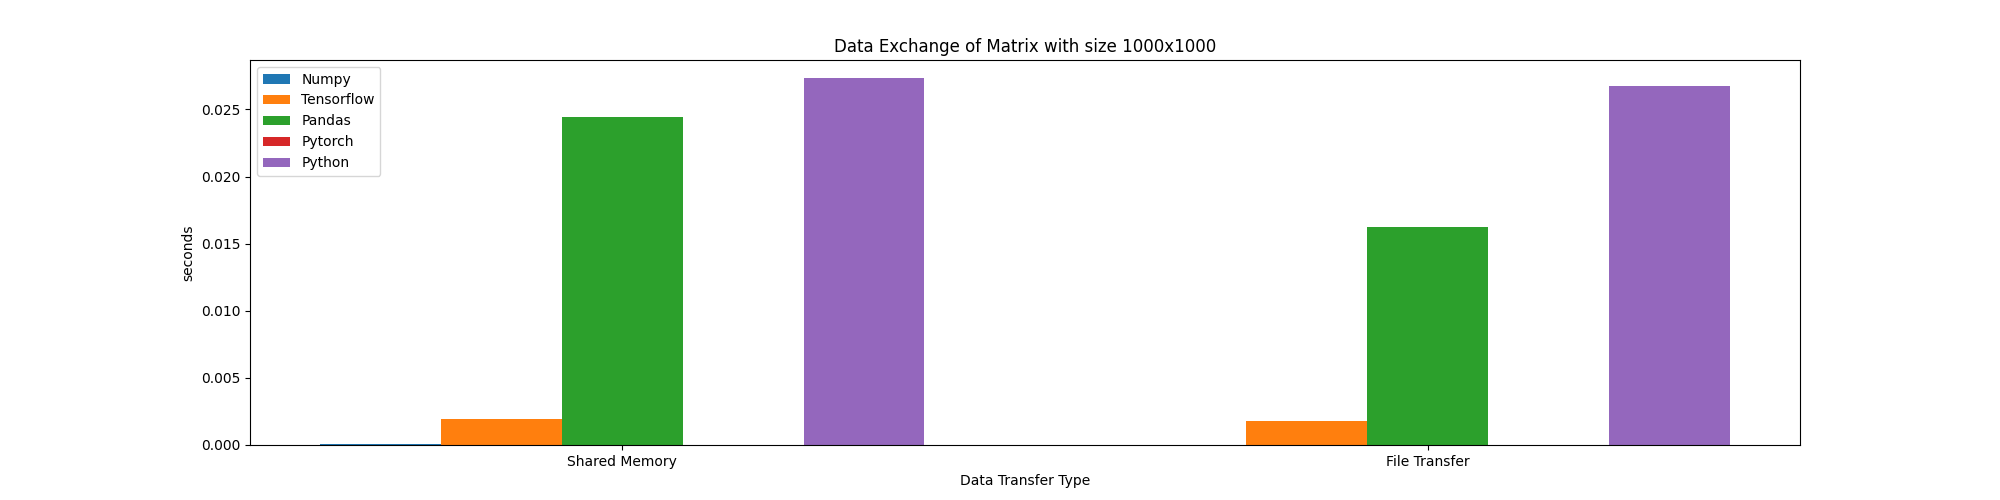
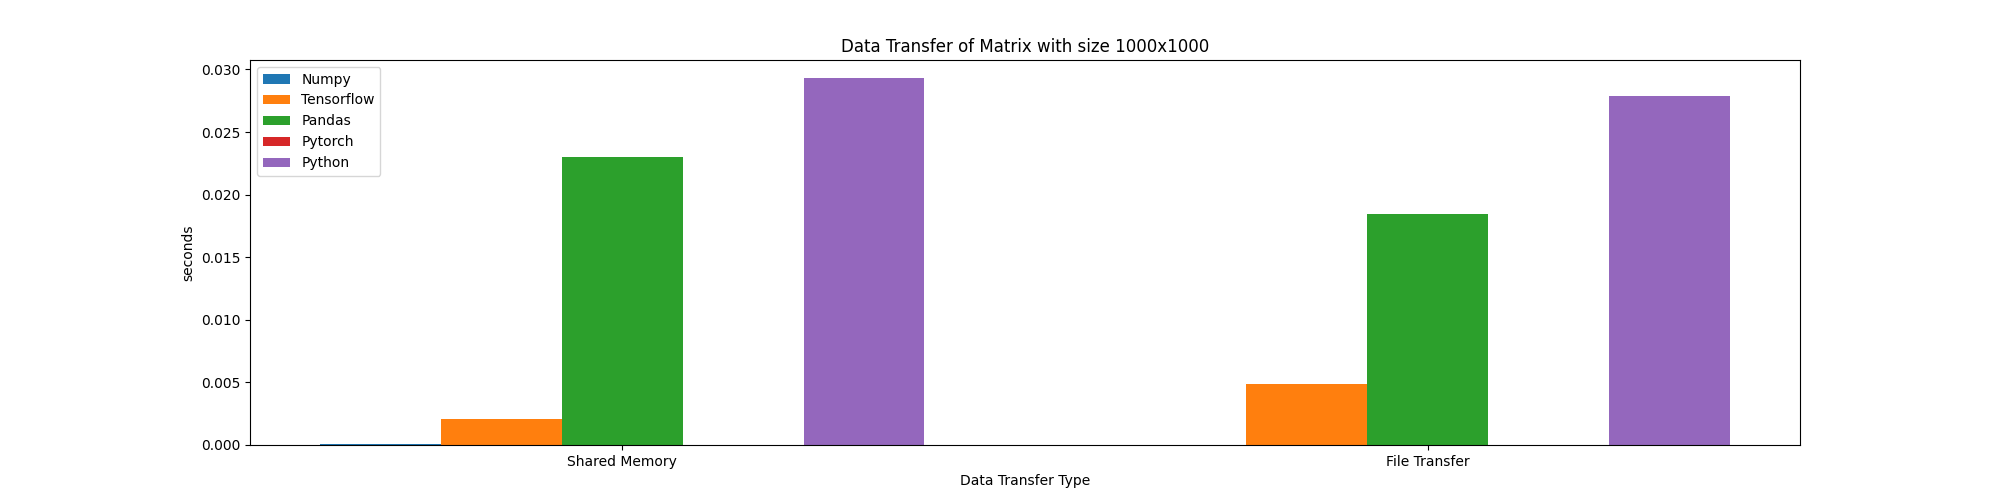
fix title in some of the graphs

diff --git a/benchmarks/api/python/data_exchange_comparison_python_daphnelib.py b/benchmarks/api/python/data_exchange_comparison_python_daphnelib.py
@@ -177,9 +177,9 @@ for size in [100, 1000, 5000]:
     benchmark_data_exchange(size, size, exchange=False)
     benchmark_data_exchange(size, size, shared_memory=False, exchange=False)
 
-    # run benchmark for nxn matrix for data exchange
-    benchmark_data_exchange(size, size)
-    benchmark_data_exchange(size, size, shared_memory=False)
+    # # run benchmark for nxn matrix for data exchange
+    # benchmark_data_exchange(size, size)
+    # benchmark_data_exchange(size, size, shared_memory=False)
 
 # objects that store data for the different graphs that are created at the end of the file
 results_exchange_5000 = {
@@ -271,48 +271,48 @@ for i in range(len(results_transfer["numpy"])):
 
 
 # create graphs with results
-create_bar_plot(results_transfer_5000, "Data Exchange of Matrix with size 5000x5000", "benchmarks/api/python/data_transfer_5000_matrix_results.png", "shared_memory", "Data Transfer Type")
-create_bar_plot(results_transfer_1000, "Data Exchange of Matrix with size 1000x1000", "benchmarks/api/python/data_transfer_1000_matrix_results.png", "shared_memory", "Data Transfer Type")
-create_bar_plot(results_transfer_100, "Data Exchange of Matrix with size 100x100", "benchmarks/api/python/data_transfer_100_matrix_results.png", "shared_memory", "Data Transfer Type")
+create_bar_plot(results_transfer_5000, "Data Transfer of Matrix with size 5000x5000", "benchmarks/api/python/data_transfer_5000_matrix_results.png", "shared_memory", "Data Transfer Type")
+create_bar_plot(results_transfer_1000, "Data Transfer of Matrix with size 1000x1000", "benchmarks/api/python/data_transfer_1000_matrix_results.png", "shared_memory", "Data Transfer Type")
+create_bar_plot(results_transfer_100, "Data Transfer of Matrix with size 100x100", "benchmarks/api/python/data_transfer_100_matrix_results.png", "shared_memory", "Data Transfer Type")
 
 ##########################
 
-print("\nData Exchange Results:")
-print(f"{'Shared memory': <15}{'Size':<15}{'NumPy (s)':<15}{'TensorFlow (s)':<15}{'Pandas (s)':<15}{'Pytorch (s)':<15}{'Python (s)':<15}")
-print("-" * 100)
-
-for i in range(len(results_exchange["numpy"])):
-    print(f"{results_exchange['shared_memory'][i]:<15}{results_exchange['size'][i][0]}x{results_exchange['size'][i][1]: <10}{results_exchange['numpy'][i]:<15.6f}{results_exchange['tensorflow'][i]:<15.6f}{results_exchange['pandas'][i]:<15.6f}{results_exchange['pytorch'][i]:<15.6f}{results_exchange['python'][i]:<15.6f}")
-
-    if 5000 in results_exchange['size'][i]:
-        results_exchange_5000["shared_memory"].append("Shared Memory" if results_exchange['shared_memory'][i] else "File Transfer")
-        results_exchange_5000["numpy"].append(results_exchange['numpy'][i])
-        results_exchange_5000["tensorflow"].append(results_exchange['tensorflow'][i])
-        results_exchange_5000["pandas"].append(results_exchange['pandas'][i])
-        results_exchange_5000["pytorch"].append(results_exchange['pytorch'][i])
-        results_exchange_5000["python"].append(results_exchange['python'][i])
-
-    if 1000 in results_exchange['size'][i]:
-        results_exchange_1000["shared_memory"].append("Shared Memory" if results_exchange['shared_memory'][i] else "File Transfer")
-        results_exchange_1000["numpy"].append(results_exchange['numpy'][i])
-        results_exchange_1000["tensorflow"].append(results_exchange['tensorflow'][i])
-        results_exchange_1000["pandas"].append(results_exchange['pandas'][i])
-        results_exchange_1000["pytorch"].append(results_exchange['pytorch'][i])
-        results_exchange_1000["python"].append(results_exchange['python'][i])
-
-    if 100 in results_exchange['size'][i]:
-        results_exchange_100["shared_memory"].append("Shared Memory" if results_exchange['shared_memory'][i] else "File Transfer")
-        results_exchange_100["numpy"].append(results_exchange['numpy'][i])
-        results_exchange_100["tensorflow"].append(results_exchange['tensorflow'][i])
-        results_exchange_100["pandas"].append(results_exchange['pandas'][i])
-        results_exchange_100["pytorch"].append(results_exchange['pytorch'][i])
-        results_exchange_100["python"].append(results_exchange['python'][i])
-
-
-# create graphs with results
-create_bar_plot(results_exchange_5000, "Data Exchange of Matrix with size 5000x5000", "benchmarks/api/python/data_exchange_5000_matrix_results.png", "shared_memory", "Data Transfer Type")
-create_bar_plot(results_exchange_1000, "Data Exchange of Matrix with size 1000x1000", "benchmarks/api/python/data_exchange_1000_matrix_results.png", "shared_memory", "Data Transfer Type")
-create_bar_plot(results_exchange_100, "Data Exchange of Matrix with size 100x100", "benchmarks/api/python/data_exchange_100_matrix_results.png", "shared_memory", "Data Transfer Type")
+# print("\nData Exchange Results:")
+# print(f"{'Shared memory': <15}{'Size':<15}{'NumPy (s)':<15}{'TensorFlow (s)':<15}{'Pandas (s)':<15}{'Pytorch (s)':<15}{'Python (s)':<15}")
+# print("-" * 100)
+#
+# for i in range(len(results_exchange["numpy"])):
+#     print(f"{results_exchange['shared_memory'][i]:<15}{results_exchange['size'][i][0]}x{results_exchange['size'][i][1]: <10}{results_exchange['numpy'][i]:<15.6f}{results_exchange['tensorflow'][i]:<15.6f}{results_exchange['pandas'][i]:<15.6f}{results_exchange['pytorch'][i]:<15.6f}{results_exchange['python'][i]:<15.6f}")
+#
+#     if 5000 in results_exchange['size'][i]:
+#         results_exchange_5000["shared_memory"].append("Shared Memory" if results_exchange['shared_memory'][i] else "File Transfer")
+#         results_exchange_5000["numpy"].append(results_exchange['numpy'][i])
+#         results_exchange_5000["tensorflow"].append(results_exchange['tensorflow'][i])
+#         results_exchange_5000["pandas"].append(results_exchange['pandas'][i])
+#         results_exchange_5000["pytorch"].append(results_exchange['pytorch'][i])
+#         results_exchange_5000["python"].append(results_exchange['python'][i])
+#
+#     if 1000 in results_exchange['size'][i]:
+#         results_exchange_1000["shared_memory"].append("Shared Memory" if results_exchange['shared_memory'][i] else "File Transfer")
+#         results_exchange_1000["numpy"].append(results_exchange['numpy'][i])
+#         results_exchange_1000["tensorflow"].append(results_exchange['tensorflow'][i])
+#         results_exchange_1000["pandas"].append(results_exchange['pandas'][i])
+#         results_exchange_1000["pytorch"].append(results_exchange['pytorch'][i])
+#         results_exchange_1000["python"].append(results_exchange['python'][i])
+#
+#     if 100 in results_exchange['size'][i]:
+#         results_exchange_100["shared_memory"].append("Shared Memory" if results_exchange['shared_memory'][i] else "File Transfer")
+#         results_exchange_100["numpy"].append(results_exchange['numpy'][i])
+#         results_exchange_100["tensorflow"].append(results_exchange['tensorflow'][i])
+#         results_exchange_100["pandas"].append(results_exchange['pandas'][i])
+#         results_exchange_100["pytorch"].append(results_exchange['pytorch'][i])
+#         results_exchange_100["python"].append(results_exchange['python'][i])
+#
+#
+# # create graphs with results
+# create_bar_plot(results_exchange_5000, "Data Exchange of Matrix with size 5000x5000", "benchmarks/api/python/data_exchange_5000_matrix_results.png", "shared_memory", "Data Transfer Type")
+# create_bar_plot(results_exchange_1000, "Data Exchange of Matrix with size 1000x1000", "benchmarks/api/python/data_exchange_1000_matrix_results.png", "shared_memory", "Data Transfer Type")
+# create_bar_plot(results_exchange_100, "Data Exchange of Matrix with size 100x100", "benchmarks/api/python/data_exchange_100_matrix_results.png", "shared_memory", "Data Transfer Type")
 
 
 
